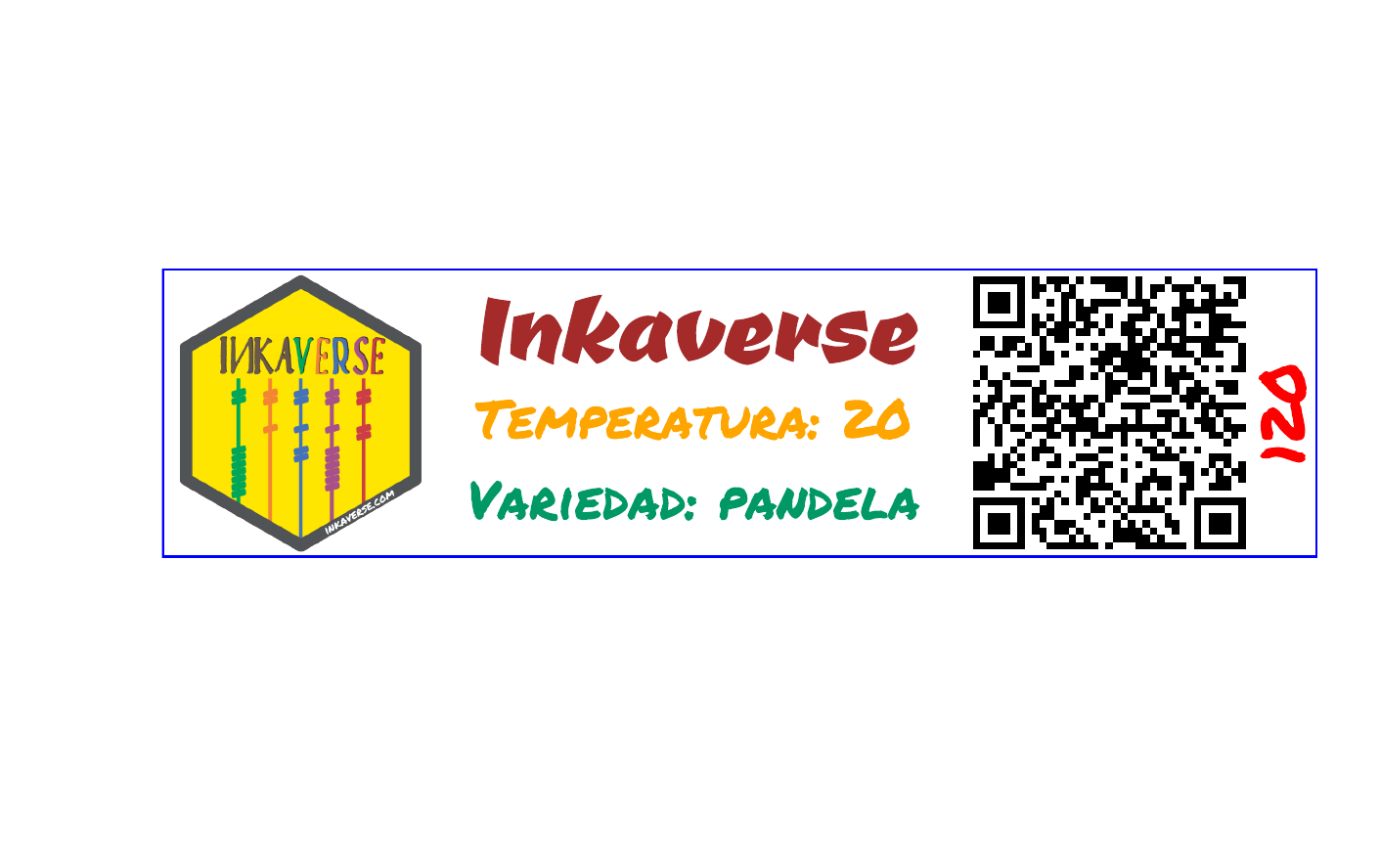
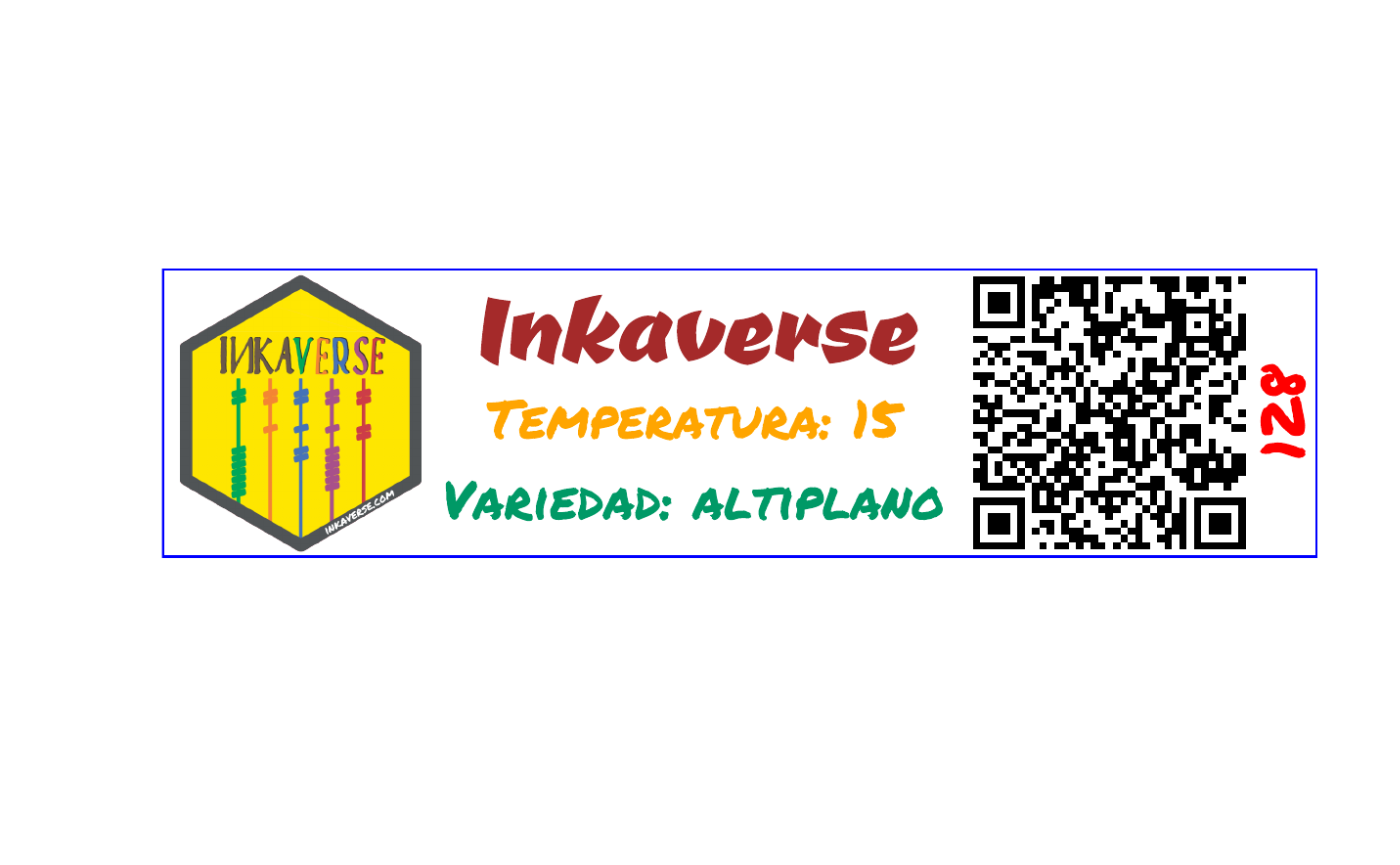
include opts to text layer

Changed region(s): [[0.3379, 0.3121, 0.9521, 0.6555], [0.3071, 0.5618, 0.6757, 0.6243]]

diff --git a/docs/reference/label_print.html b/docs/reference/label_print.html
@@ -266,7 +266,8 @@
 <span class='r-in'>               , position <span class='op'>=</span> <span class='fu'><a href='https://rdrr.io/r/base/c.html'>c</a></span><span class='op'>(</span><span class='fl'>7.2</span>, <span class='fl'>0.15</span><span class='op'>)</span></span>
 <span class='r-in'>               <span class='op'>)</span> <span class='op'><a href='https://magrittr.tidyverse.org/reference/pipe.html'>%&gt;%</a></span></span>
 <span class='r-in'>         <span class='fu'><a href='include_text.html'>include_text</a></span><span class='op'>(</span>value <span class='op'>=</span> <span class='st'>"plots"</span>, position <span class='op'>=</span> <span class='fu'><a href='https://rdrr.io/r/base/c.html'>c</a></span><span class='op'>(</span><span class='fl'>9.7</span>, <span class='fl'>1.25</span><span class='op'>)</span>, angle <span class='op'>=</span> <span class='fl'>90</span>, size <span class='op'>=</span> <span class='fl'>15</span><span class='op'>)</span> <span class='op'><a href='https://magrittr.tidyverse.org/reference/pipe.html'>%&gt;%</a></span></span>
-<span class='r-in'>         <span class='fu'><a href='include_text.html'>include_text</a></span><span class='op'>(</span>value <span class='op'>=</span> <span class='st'>"Inkaverse"</span>, position <span class='op'>=</span> <span class='fu'><a href='https://rdrr.io/r/base/c.html'>c</a></span><span class='op'>(</span><span class='fl'>4.5</span>, <span class='fl'>1.25</span><span class='op'>)</span>, size <span class='op'>=</span> <span class='fl'>18</span><span class='op'>)</span> <span class='op'><a href='https://magrittr.tidyverse.org/reference/pipe.html'>%&gt;%</a></span></span>
+<span class='r-in'>         <span class='fu'><a href='include_text.html'>include_text</a></span><span class='op'>(</span>value <span class='op'>=</span> <span class='st'>"Inkaverse"</span></span>
+<span class='r-in'>         , position <span class='op'>=</span> <span class='fu'><a href='https://rdrr.io/r/base/c.html'>c</a></span><span class='op'>(</span><span class='fl'>4.5</span>, <span class='fl'>1.25</span><span class='op'>)</span>, size <span class='op'>=</span> <span class='fl'>18</span>, opts <span class='op'>=</span> <span class='fu'><a href='https://rdrr.io/r/base/list.html'>list</a></span><span class='op'>(</span>hjust <span class='op'>=</span> <span class='fl'>0.0</span>, vjust <span class='op'>=</span> <span class='fl'>0.0</span><span class='op'>)</span><span class='op'>)</span> <span class='op'><a href='https://magrittr.tidyverse.org/reference/pipe.html'>%&gt;%</a></span></span>
 <span class='r-in'>         <span class='fu'>label_print</span><span class='op'>(</span><span class='st'>"sample"</span><span class='op'>)</span></span>
 <span class='r-in'></span>
 <span class='r-in'><span class='op'>}</span></span>

diff --git a/docs/reference/include_text.html b/docs/reference/include_text.html
@@ -197,7 +197,8 @@
   font <span class='op'>=</span> <span class='cn'>NA</span>,
   type <span class='op'>=</span> <span class='st'>"static"</span>,
   color <span class='op'>=</span> <span class='cn'>NA</span>,
-  angle <span class='op'>=</span> <span class='fl'>0</span>
+  angle <span class='op'>=</span> <span class='fl'>0</span>,
+  opts <span class='op'>=</span> <span class='cn'>NA</span>
 <span class='op'>)</span></pre>
 
     <h2 class="hasAnchor" id="arguments"><a class="anchor" href="#arguments"></a>Arguments</h2>
@@ -235,6 +236,10 @@
       <th>angle</th>
       <td><p>angle of the text</p></td>
     </tr>
+    <tr>
+      <th>opts</th>
+      <td><p>list arguments from draw_label()</p></td>
+    </tr>
     </table>
 
     <h2 class="hasAnchor" id="value"><a class="anchor" href="#value"></a>Value</h2>
@@ -257,7 +262,8 @@
 <span class='r-in'>         <span class='fu'><a href='include_image.html'>include_image</a></span><span class='op'>(</span>value <span class='op'>=</span> <span class='st'>"https://inkaverse.com/reference/figures/logo.png"</span></span>
 <span class='r-in'>               , size <span class='op'>=</span> <span class='fu'><a href='https://rdrr.io/r/base/c.html'>c</a></span><span class='op'>(</span><span class='fl'>2</span>,<span class='fl'>2</span><span class='op'>)</span></span>
 <span class='r-in'>               <span class='op'>)</span> <span class='op'><a href='https://magrittr.tidyverse.org/reference/pipe.html'>%&gt;%</a></span></span>
-<span class='r-in'>         <span class='fu'>include_text</span><span class='op'>(</span>value <span class='op'>=</span> <span class='st'>"plots"</span><span class='op'>)</span></span>
+<span class='r-in'>         <span class='fu'>include_text</span><span class='op'>(</span>value <span class='op'>=</span> <span class='st'>"plots"</span>, position <span class='op'>=</span> <span class='st'>"5*1"</span><span class='op'>)</span> <span class='op'><a href='https://magrittr.tidyverse.org/reference/pipe.html'>%&gt;%</a></span> </span>
+<span class='r-in'>         <span class='fu'><a href='label_print.html'>label_print</a></span><span class='op'>(</span><span class='op'>)</span></span>
 <span class='r-in'></span>
 <span class='r-in'><span class='op'>}</span></span>
 <span class='r-in'></span>

diff --git a/docs/reference/image_import.html b/docs/reference/image_import.html
@@ -6,7 +6,7 @@
 <meta http-equiv="X-UA-Compatible" content="IE=edge">
 <meta name="viewport" content="width=device-width, initial-scale=1.0">
 
-<title>Image import options — image_import • huito</title>
+<title>Image import — image_import • huito</title>
 
 <!-- favicons -->
 <link rel="icon" type="image/png" sizes="16x16" href="../favicon-16x16.png">
@@ -52,7 +52,7 @@
 
 
 
-<meta property="og:title" content="Image import options — image_import" />
+<meta property="og:title" content="Image import — image_import" />
 <meta property="og:description" content="Import images and include R magick options" />
 <meta property="og:image" content="https://huito.inkaverse.com/reference/figures/logo.png" />
 
@@ -180,7 +180,7 @@
 <div class="row">
   <div class="col-md-9 contents">
     <div class="page-header">
-    <h1>Image import options</h1>
+    <h1>Image import</h1>
     <small class="dont-index">Source: <a href='https://github.com/flavjack/huito/blob/master/R/image_import.R'><code>R/image_import.R</code></a></small>
     <div class="hidden name"><code>image_import.Rd</code></div>
     </div>

diff --git a/docs/reference/index.html b/docs/reference/index.html
@@ -219,7 +219,7 @@
         <td>
           <p><code><a href="image_import.html">image_import()</a></code> </p>
         </td>
-        <td><p>Image import options</p></td>
+        <td><p>Image import</p></td>
       </tr><tr>
         
         <td>
